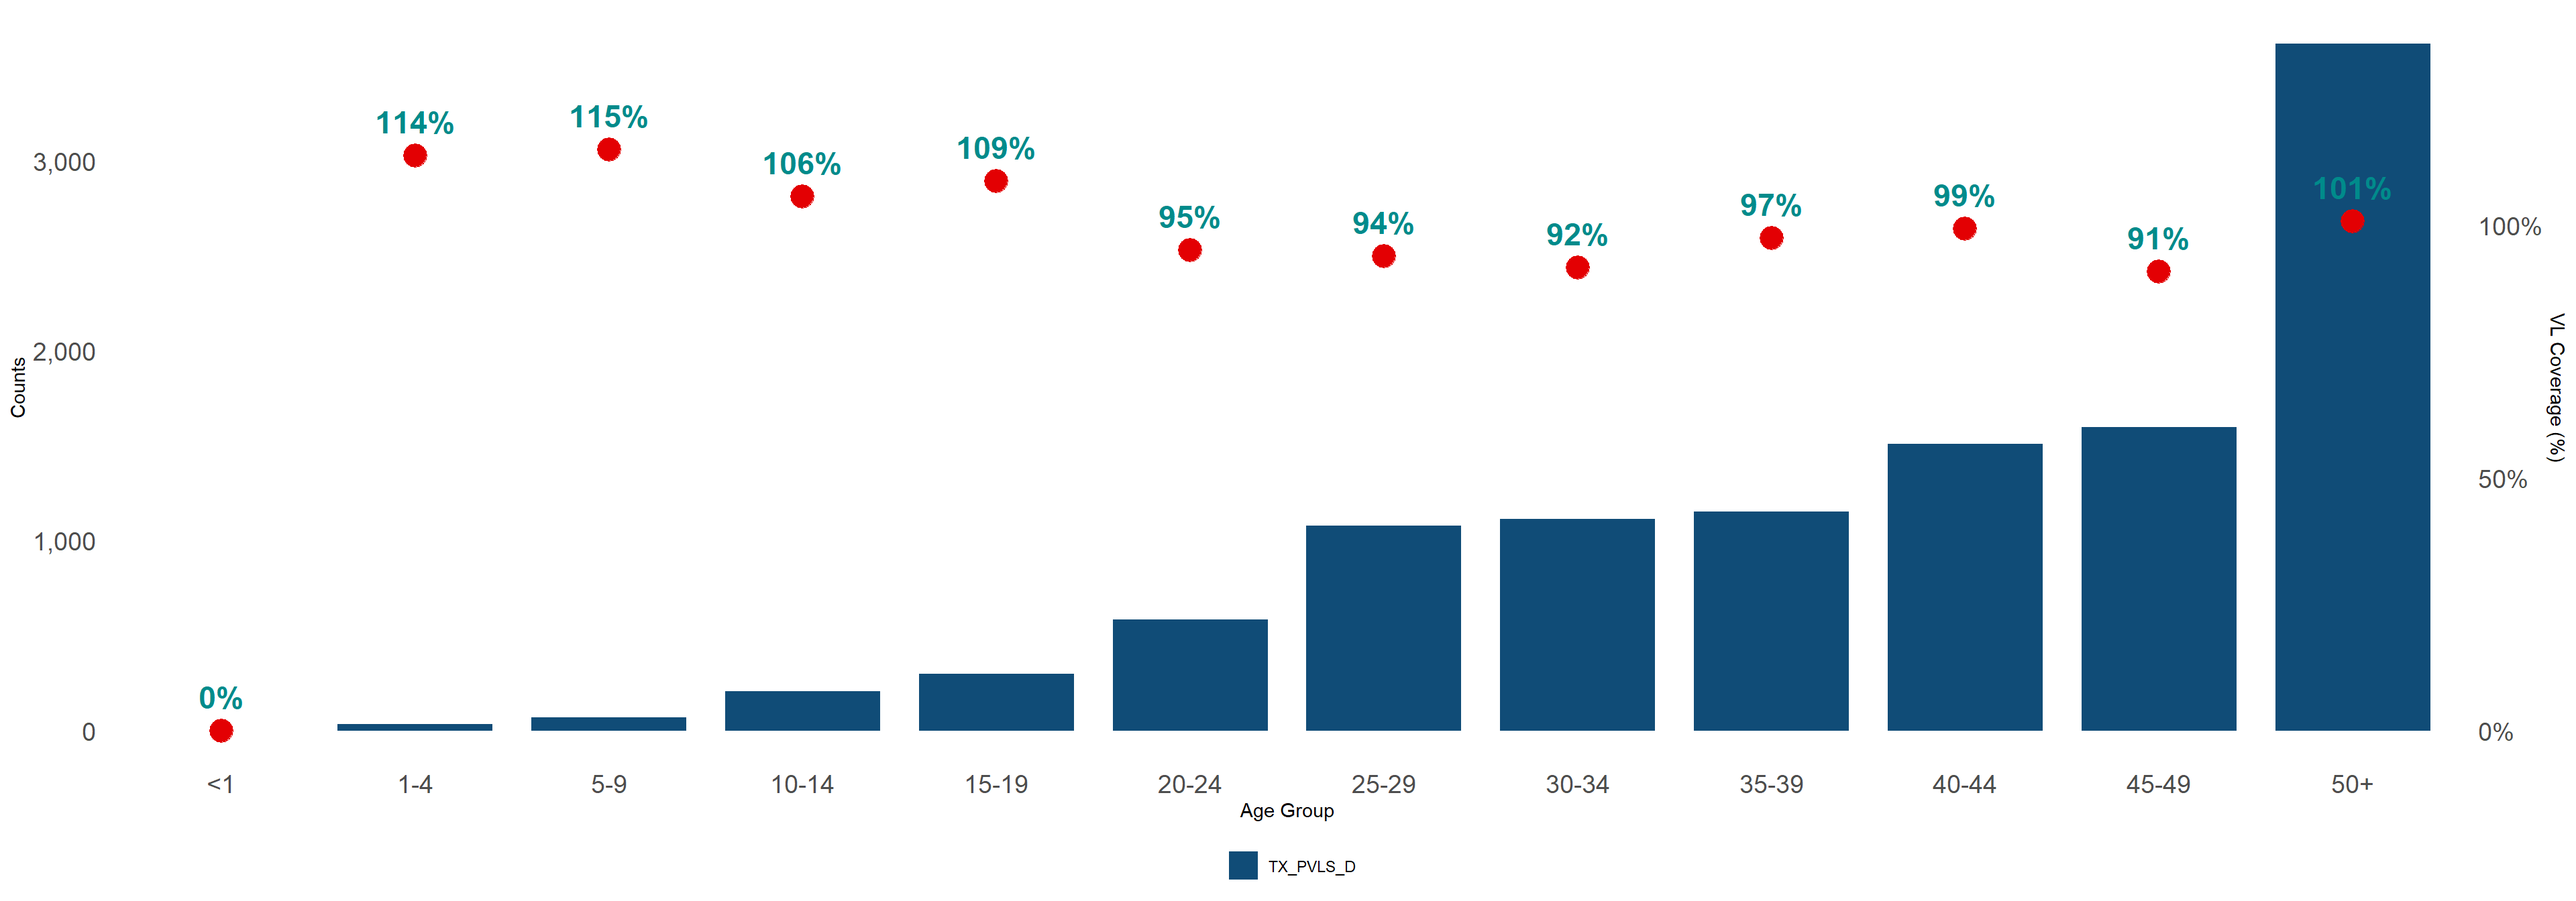
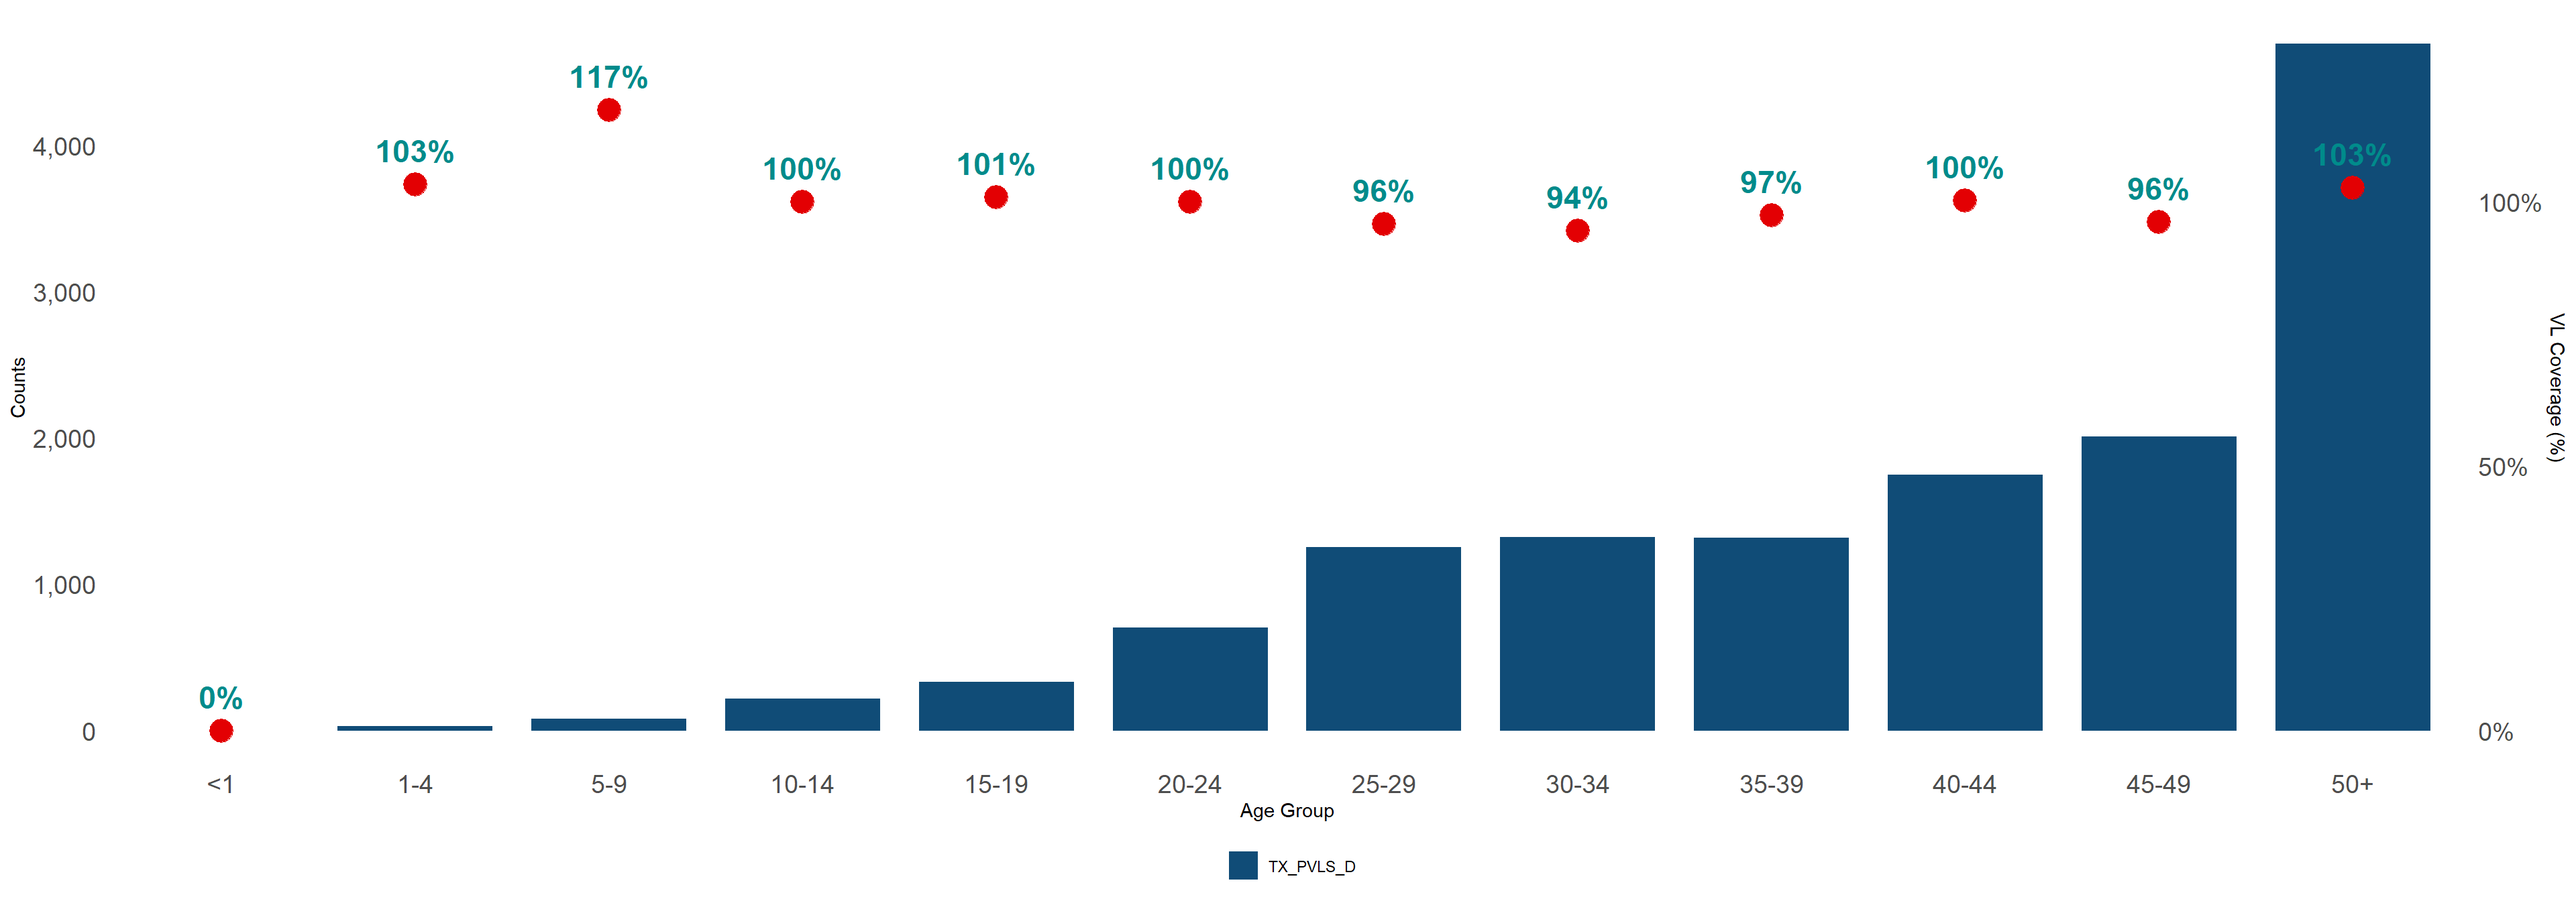
Sep Update

diff --git a/index.html b/index.html
@@ -93,7 +93,7 @@ grid-auto-rows: minmax(0, 1fr);">
 </div>
 <div class="value-box-area html-fill-item html-fill-container">
 <span style="font-size: 30px; color: white; font-weight:bold;" class="value-box-title">Total Testing</span>
-<span style="color: white; " class="value-box-value">95,964</span>
+<span style="color: white; " class="value-box-value">102,229</span>
 </div>
 </div>
 </div>
@@ -109,7 +109,7 @@ grid-auto-rows: minmax(0, 1fr);">
 <div class="value-box-showcase html-fill-item html-fill-container"><svg xmlns="http://www.w3.org/2000/svg" viewbox="0 0 16 16" class="bi bi-plus-circle-fill " style="height:1em;width:1em;fill:currentColor;vertical-align:-0.125em;" aria-hidden="true" role="img"><path d="M16 8A8 8 0 1 1 0 8a8 8 0 0 1 16 0zM8.5 4.5a.5.5 0 0 0-1 0v3h-3a.5.5 0 0 0 0 1h3v3a.5.5 0 0 0 1 0v-3h3a.5.5 0 0 0 0-1h-3v-3z"></path></svg></div>
 <div class="value-box-area html-fill-item html-fill-container">
 <span style="font-size: 30px;font-weight:bold;" class="value-box-title">Total Positives</span>
-<p class="value-box-value">3,968</p>
+<p class="value-box-value">4,093</p>
 </div>
 </div>
 </div>
@@ -126,7 +126,7 @@ grid-auto-rows: minmax(0, 1fr);">
 <path d="M2 1a1 1 0 0 1 1-1h10a1 1 0 0 1 1 1v2a1 1 0 0 1-1 1v10.5a1.5 1.5 0 0 1-1.5 1.5h-7A1.5 1.5 0 0 1 3 14.5V4a1 1 0 0 1-1-1V1Zm2 3v10.5a.5.5 0 0 0 .5.5h7a.5.5 0 0 0 .5-.5V4H4ZM3 3h10V1H3v2Z"></path></svg></div>
 <div class="value-box-area html-fill-item html-fill-container">
 <span style="font-size: 30px; font-weight:bold;" class="value-box-title">Total New on ART</span>
-<p class="value-box-value">3,916</p>
+<p class="value-box-value">4,064</p>
 </div>
 </div>
 </div>
@@ -162,8 +162,8 @@ grid-auto-rows: minmax(0, 1fr);">
 <div class="value-box-grid html-fill-item" style="--bslib-grid-height:auto;--bslib-grid-height-mobile:auto;---bslib-value-box-showcase-w:30%;---bslib-value-box-showcase-w-fs:1fr;---bslib-value-box-showcase-max-h:100px;---bslib-value-box-showcase-max-h-fs:67%;">
 <div class="value-box-showcase html-fill-item html-fill-container"><svg xmlns="http://www.w3.org/2000/svg" viewbox="0 0 16 16" class="bi bi-people " style="height:1em;width:1em;fill:currentColor;vertical-align:-0.125em;" aria-hidden="true" role="img"><path d="M15 14s1 0 1-1-1-4-5-4-5 3-5 4 1 1 1 1h8Zm-7.978-1A.261.261 0 0 1 7 12.996c.001-.264.167-1.03.76-1.72C8.312 10.629 9.282 10 11 10c1.717 0 2.687.63 3.24 1.276.593.69.758 1.457.76 1.72l-.008.002a.274.274 0 0 1-.014.002H7.022ZM11 7a2 2 0 1 0 0-4 2 2 0 0 0 0 4Zm3-2a3 3 0 1 1-6 0 3 3 0 0 1 6 0ZM6.936 9.28a5.88 5.88 0 0 0-1.23-.247A7.35 7.35 0 0 0 5 9c-4 0-5 3-5 4 0 .667.333 1 1 1h4.216A2.238 2.238 0 0 1 5 13c0-1.01.377-2.042 1.09-2.904.243-.294.526-.569.846-.816ZM4.92 10A5.493 5.493 0 0 0 4 13H1c0-.26.164-1.03.76-1.724.545-.636 1.492-1.256 3.16-1.275ZM1.5 5.5a3 3 0 1 1 6 0 3 3 0 0 1-6 0Zm3-2a2 2 0 1 0 0 4 2 2 0 0 0 0-4Z"></path></svg></div>
 <div class="value-box-area html-fill-item html-fill-container">
-<span style="font-size: 30px;font-weight:bold;" class="value-box-title">Current on Treatment</span>
-<p class="value-box-value">38,854</p>
+<span style="font-size: 30px;font-weight:bold;" class="value-box-title">Current on Treatment: Prelim</span>
+<p class="value-box-value">38,897</p>
 </div>
 </div>
 </div>
@@ -179,7 +179,7 @@ grid-auto-rows: minmax(0, 1fr);">
 <div class="value-box-showcase html-fill-item html-fill-container"><svg xmlns="http://www.w3.org/2000/svg" viewbox="0 0 16 16" class="bi bi-virus " style="height:1em;width:1em;fill:currentColor;vertical-align:-0.125em;" aria-hidden="true" role="img"><path d="M8 0a1 1 0 0 1 1 1v1.402c0 .511.677.693.933.25l.7-1.214a1 1 0 0 1 1.733 1l-.701 1.214c-.256.443.24.939.683.683l1.214-.701a1 1 0 0 1 1 1.732l-1.214.701c-.443.256-.262.933.25.933H15a1 1 0 1 1 0 2h-1.402c-.512 0-.693.677-.25.933l1.214.701a1 1 0 1 1-1 1.732l-1.214-.7c-.443-.257-.939.24-.683.682l.701 1.214a1 1 0 1 1-1.732 1l-.701-1.214c-.256-.443-.933-.262-.933.25V15a1 1 0 1 1-2 0v-1.402c0-.512-.677-.693-.933-.25l-.701 1.214a1 1 0 0 1-1.732-1l.7-1.214c.257-.443-.24-.939-.682-.683l-1.214.701a1 1 0 1 1-1-1.732l1.214-.701c.443-.256.261-.933-.25-.933H1a1 1 0 1 1 0-2h1.402c.511 0 .693-.677.25-.933l-1.214-.701a1 1 0 1 1 1-1.732l1.214.701c.443.256.939-.24.683-.683l-.701-1.214a1 1 0 0 1 1.732-1l.701 1.214c.256.443.933.261.933-.25V1a1 1 0 0 1 1-1Zm2 5a1 1 0 1 0-2 0 1 1 0 0 0 2 0ZM6 7a1 1 0 1 0-2 0 1 1 0 0 0 2 0Zm1 4a1 1 0 1 0 0-2 1 1 0 0 0 0 2Zm5-3a1 1 0 1 0-2 0 1 1 0 0 0 2 0Z"></path></svg></div>
 <div class="value-box-area html-fill-item html-fill-container">
 <span style="font-size: 30px;font-weight:bold;" class="value-box-title">Had a Viral Load</span>
-<p class="value-box-value">34,182</p>
+<p class="value-box-value">35,433</p>
 </div>
 </div>
 </div>
@@ -196,7 +196,7 @@ grid-auto-rows: minmax(0, 1fr);">
 <path fill-rule="evenodd" d="M1.646 2.646a.5.5 0 0 1 .708 0L8 8.293l5.646-5.647a.5.5 0 0 1 .708.708l-6 6a.5.5 0 0 1-.708 0l-6-6a.5.5 0 0 1 0-.708z"></path></svg></div>
 <div class="value-box-area html-fill-item html-fill-container">
 <span style="font-size: 30px;font-weight:bold;" class="value-box-title">Total Suppressed</span>
-<p class="value-box-value">33,271</p>
+<p class="value-box-value">34,544</p>
 </div>
 </div>
 </div>
@@ -217,7 +217,7 @@ grid-auto-rows: minmax(0, 1fr);">
 <path d="M1.5 2a.5.5 0 0 1 0-1v1zm13-1a.5.5 0 0 1 0 1V1zm-13 0h13v1h-13V1z"></path></svg></div>
 <div class="value-box-area html-fill-item html-fill-container">
 <span style="font-size: 30px;font-weight:bold;" class="value-box-title">VL Coverage</span>
-<p class="value-box-value">94%</p>
+<p class="value-box-value">96%</p>
 </div>
 </div>
 </div>
@@ -269,8 +269,8 @@ grid-auto-rows: minmax(0, 1fr);">
 <div class="html-fill-item html-fill-container bslib-grid" style="display: grid; grid-template-columns: minmax(3em, 50fr) minmax(3em, 50fr);
 grid-auto-rows: minmax(0, 1fr);">
 <div class="html-fill-item html-fill-container bslib-grid" style="display: grid; grid-template-rows: 550px; grid-auto-columns: minmax(0, 1fr);">
-<div class="card cell html-fill-item html-fill-container bslib-card" data-width="800" data-title="PROGRAM AREA PERFORMANCE AGAINST TARGETS | OCTOBER 2023 - AUGUST 2024" data-bslib-card-init="" data-require-bs-caller="card()" data-full-screen="false">
-<div class="card-header"><div class="card-title">PROGRAM AREA PERFORMANCE AGAINST TARGETS | OCTOBER 2023 - AUGUST 2024</div></div>
+<div class="card cell html-fill-item html-fill-container bslib-card" data-width="800" data-title="PROGRAM AREA PERFORMANCE AGAINST TARGETS | OCTOBER 2023 - SEPTEMBER 2024" data-bslib-card-init="" data-require-bs-caller="card()" data-full-screen="false">
+<div class="card-header"><div class="card-title">PROGRAM AREA PERFORMANCE AGAINST TARGETS | OCTOBER 2023 - SEPTEMBER 2024</div></div>
 <div class="card-body html-fill-item html-fill-container">
 <img src="index_files/figure-html/unnamed-chunk-25-1.png" class="img-fluid" width="768">
 </div>
